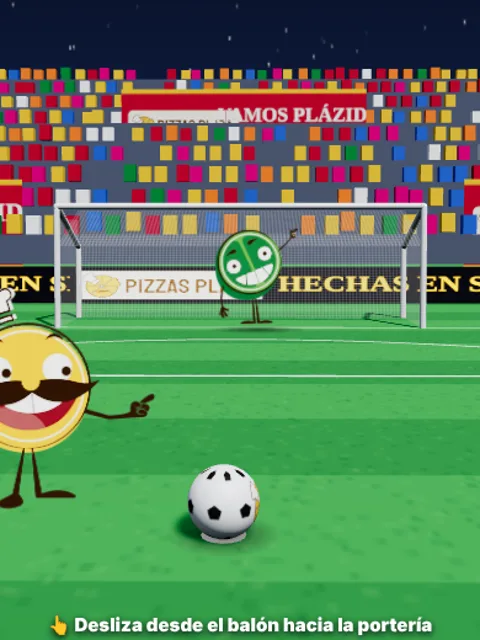
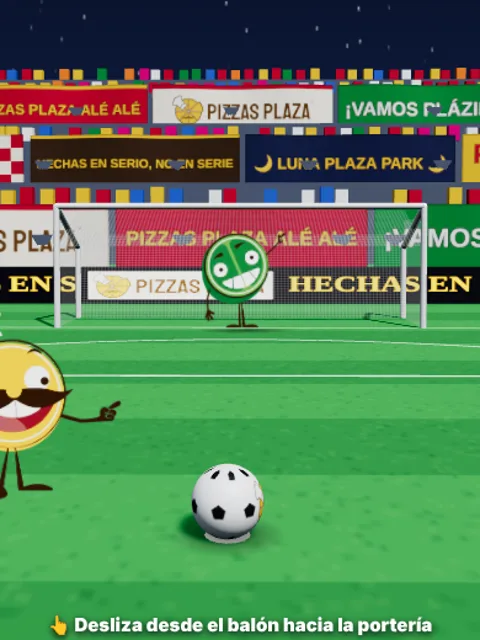
Penales 3D: más mantas grandes que ondean y porra Pizzas Plaza alé alé
Claude-Session: https://claude.ai/code/session_019rUShXu8QUnKqHiJVXwCAX

diff --git a/juegos/penales-3d/index.html b/juegos/penales-3d/index.html
@@ -104,7 +104,7 @@ const foco=new THREE.DirectionalLight(0xFFFFFF,2.6); foco.position.set(8,22,10);
 Object.assign(foco.shadow.camera,{left:-12,right:12,top:12,bottom:-16,near:1,far:60}); foco.target.position.set(0,0,-6); escena.add(foco,foco.target);
 
 // ---------------- estadio ----------------
-const T={}; let balon, portero, plaz, red, redLat=[], sombraB, sombraP, led=[], gente, aficion=[], listo=false;
+const T={}, mantas=[]; let balon, portero, plaz, red, redLat=[], sombraB, sombraP, led=[], gente, aficion=[], listo=false;
 async function mundo(){
   const logo=await cargar(A.logo), icono=await cargar(A.icono);
   // pasto con franjas de podado
@@ -135,15 +135,32 @@ async function mundo(){
   const concreto=mat({color:0x5A6378,roughness:.95});
   const grada=(z0,x0,ancho,rot)=>{ const g=new THREE.Group(); for(let i=0;i<9;i++){ const e=new THREE.Mesh(new THREE.BoxGeometry(ancho,.9,1.6),concreto); e.position.set(0,.45+i*.9,-i*1.6); e.receiveShadow=true; g.add(e); } g.position.set(x0,1,z0); g.rotation.y=rot; escena.add(g); return g; };
   const gradas=[grada(GZ-9,0,60,0),grada(-14,-27,40,Math.PI/2),grada(-14,27,40,-Math.PI/2)];
+  // dónde van las mantas de la grada de atrás: [diseño, x, escalón]
+  const ANCHO=7.6; const MANTAS=[[0,-7.8,0],[1,0,0],[2,7.8,0],[3,-3.9,3],[4,3.9,3],[5,-11.7,3],[6,11.7,3],[1,-7.8,6],[0,0,6],[2,7.8,6],[6,-15.6,0],[5,15.6,0],[4,-15.6,6],[3,15.6,6]];
+  const tapa=(x,i)=>MANTAS.some(([k,bx,bi])=>(bi===i||bi===i+1)&&Math.abs(x-bx)<ANCHO/2+.2);
   // afición (cubitos de colores que brincan)
   const colores=[0xFCC10C,0xC8102E,0xFFFFFF,0x1E8A3A,0xFF7A1A,0x2B6CD9,0xE4007C].map(c=>new THREE.Color(c));
   const n=1500; gente=new THREE.InstancedMesh(new THREE.BoxGeometry(.42,.6,.32),new THREE.MeshStandardMaterial({roughness:.8}),n); const dummy=new THREE.Object3D(); let k=0;
-  gradas.forEach(g=>{ g.updateMatrixWorld(); const ancho=g.children[0].geometry.parameters.width; for(let i=0;i<9;i++) for(let x=-ancho/2+.5;x<ancho/2-.4&&k<n;x+=.62){ if(Math.random()<.12) continue; const p=new THREE.Vector3(x+rnd(-.08,.08),.9+.3+i*.9,-i*1.6+rnd(-.3,.1)).applyMatrix4(g.matrixWorld); aficion.push({p,f:Math.random()*6,a:rnd(.05,.25)}); dummy.position.copy(p); dummy.updateMatrix(); gente.setMatrixAt(k,dummy.matrix); gente.setColorAt(k,Math.random()<.45?colores[k%2]:colores[Math.random()*colores.length|0]); k++; } });
+  gradas.forEach(g=>{ g.updateMatrixWorld(); const ancho=g.children[0].geometry.parameters.width; for(let i=0;i<9;i++) for(let x=-ancho/2+.5;x<ancho/2-.4&&k<n;x+=.62){ if(Math.random()<.12) continue; if(g===gradas[0]&&tapa(x,i)) continue; const p=new THREE.Vector3(x+rnd(-.08,.08),.9+.3+i*.9,-i*1.6+rnd(-.3,.1)).applyMatrix4(g.matrixWorld); aficion.push({p,f:Math.random()*6,a:rnd(.05,.25)}); dummy.position.copy(p); dummy.updateMatrix(); gente.setMatrixAt(k,dummy.matrix); gente.setColorAt(k,Math.random()<.45?colores[k%2]:colores[Math.random()*colores.length|0]); k++; } });
   gente.count=k; escena.add(gente); gente.userData.dummy=dummy;
-  // mantas de Pizzas Plaza en la grada
-  T.manta=lienzo(1024,300,(g,w,h)=>{ g.fillStyle='#C8102E'; g.fillRect(0,0,w,h); g.fillStyle='#FCC10C'; g.fillRect(0,0,w,18); g.fillRect(0,h-18,w,18); if(logo){ const lw=w*.42, lh=lw*logo.height/logo.width; g.fillStyle='#FFF8E7'; g.beginPath(); g.roundRect(30,h/2-lh/2-14,lw+30,lh+28,16); g.fill(); g.drawImage(logo,45,h/2-lh/2,lw,lh); }
-    g.fillStyle='#fff'; g.font='900 82px "Bebas Neue",Impact'; g.textAlign='center'; g.textBaseline='middle'; g.fillText('¡VAMOS PLÁZIDO!',w*.73,h*.38); g.fillStyle='#FCC10C'; g.font='900 46px "Bebas Neue",Impact'; g.fillText('HECHAS EN SERIO, NO EN SERIE',w*.73,h*.7); });
-  [[-12,0],[12,0],[0,1]].forEach(([x,f])=>{ const m=new THREE.Mesh(new THREE.PlaneGeometry(10,2.9),new THREE.MeshStandardMaterial({map:T.manta,side:THREE.DoubleSide,roughness:.9})); m.position.set(x,2.2+f*4.2,GZ-9.3-f*7.4); escena.add(m); });
+  // mantas de Pizzas Plaza en la grada (muchas, grandes y ondeando)
+  const manta=(fondo,dib)=>lienzo(1024,288,(g,w,h)=>{ g.fillStyle=fondo; g.fillRect(0,0,w,h); dib(g,w,h); g.strokeStyle='rgba(0,0,0,.25)'; g.lineWidth=6; g.strokeRect(3,3,w-6,h-6); });
+  const conLogo=(g,w,h,x,lw)=>{ if(!logo) return; const lh=lw*logo.height/logo.width; g.fillStyle='#FFF8E7'; g.beginPath(); g.roundRect(x-lw/2-16,h/2-lh/2-12,lw+32,lh+24,14); g.fill(); g.drawImage(logo,x-lw/2,h/2-lh/2,lw,lh); };
+  const texto=(g,t,x,y,fz,col,mw)=>{ g.font=`900 ${fz}px "Bebas Neue",Impact,sans-serif`; const tw=g.measureText(t).width; if(tw>mw) g.font=`900 ${fz*mw/tw}px "Bebas Neue",Impact,sans-serif`; g.fillStyle=col; g.textAlign='center'; g.textBaseline='middle'; g.lineWidth=8; g.strokeStyle='rgba(0,0,0,.35)'; g.strokeText(t,x,y); g.fillText(t,x,y); };
+  T.mantas=[
+    manta('#FFF8E7',(g,w,h)=>{ g.fillStyle='#C8102E'; g.fillRect(0,0,w,26); g.fillRect(0,h-26,w,26); conLogo(g,w,h,w/2,w*.78); }),
+    manta('#C8102E',(g,w,h)=>{ g.fillStyle='#FCC10C'; g.fillRect(0,0,w,20); g.fillRect(0,h-20,w,20); texto(g,'PIZZAS PLAZA ALÉ ALÉ',w/2,h/2,150,'#FCC10C',w*.92); }),
+    manta('#1E8A3A',(g,w,h)=>{ texto(g,'¡VAMOS PLÁZIDO!',w/2,h/2,170,'#FFFFFF',w*.92); }),
+    manta('#422913',(g,w,h)=>{ g.fillStyle='#FCC10C'; g.fillRect(0,0,w,16); g.fillRect(0,h-16,w,16); texto(g,'HECHAS EN SERIO, NO EN SERIE',w/2,h/2,140,'#FCC10C',w*.94); }),
+    manta('#13254F',(g,w,h)=>{ texto(g,'🌙 LUNA PLAZA PARK 🌙',w/2,h/2,140,'#FCC10C',w*.92); }),
+    manta('#FFF8E7',(g,w,h)=>{ const n=16,s=w/n; for(let y=0;y<h/s;y++) for(let x=0;x<n;x++){ if((x+y)%2){ g.fillStyle='#C8102E'; g.fillRect(x*s,y*s,s,s); } } conLogo(g,w,h,w/2,w*.55); }),
+    manta('#FCC10C',(g,w,h)=>{ texto(g,'PIZZAS PLAZA',w/2,h*.36,150,'#C8102E',w*.9); texto(g,'¡CAMPEÓN!',w/2,h*.76,100,'#422913',w*.9); }),
+  ];
+  const ponManta=(k,x,i,ancho=ANCHO,lado=0)=>{ const geo=new THREE.PlaneGeometry(ancho,ancho*288/1024,24,4); const m=new THREE.Mesh(geo,new THREE.MeshStandardMaterial({map:T.mantas[k],side:THREE.DoubleSide,roughness:.85}));
+    if(!lado) m.position.set(x,1+(i+1)*.9-.15,GZ-9+.9-i*1.6); else { m.position.set(lado*(27-1.0+i*1.6),1+(i+1)*.9-.15,x); m.rotation.y=-lado*Math.PI/2; }
+    m.userData.base=geo.attributes.position.array.slice(); m.userData.fase=Math.random()*6; escena.add(m); mantas.push(m); };
+  MANTAS.forEach(([k,x,i])=>ponManta(k,x,i,ANCHO));
+  [[1,-14,0],[0,-6,2],[3,-20,4]].forEach(([k,z,i])=>{ ponManta(k,z,i,7,-1); ponManta((k+2)%7,z,i,7,1); });
   // torres de luz
   const brillo=lienzo(128,128,(g,w,h)=>{ const gr=g.createRadialGradient(64,64,0,64,64,64); gr.addColorStop(0,'rgba(255,255,255,1)'); gr.addColorStop(.3,'rgba(220,235,255,.6)'); gr.addColorStop(1,'rgba(200,220,255,0)'); g.fillStyle=gr; g.fillRect(0,0,w,h); });
   [[-26,-30],[26,-30],[-30,6],[30,6]].forEach(([x,z])=>{ const p=new THREE.Mesh(new THREE.CylinderGeometry(.3,.5,26,8),mat({color:0x444B5A,metalness:.4})); p.position.set(x,13,z); escena.add(p);
@@ -164,6 +181,34 @@ async function mundo(){
   listo=true; colocar();
 }
 function pose(k){ if(!plaz||!T.pose[k]) return; plaz.material.map=T.pose[k]; const im=T.pose[k].image; plaz.scale.set(1.35*im.width/im.height,1.35,1); }
+
+// ---------------- tribuna: ambiente + porra "Pizzas Plaza alé alé" (sintetizada) ----------------
+const TB={ini:false,prox:6};
+function tribunaIni(){ const AC=SND.ctx; if(!AC||TB.ini) return; TB.ini=true; TB.AC=AC;
+  TB.out=AC.createGain(); TB.out.gain.value=SND.muted?0:1; TB.out.connect(AC.destination);
+  const len=AC.sampleRate*2.4, ir=AC.createBuffer(2,len,AC.sampleRate); for(let c=0;c<2;c++){ const d=ir.getChannelData(c); for(let i=0;i<len;i++) d[i]=(Math.random()*2-1)*Math.pow(1-i/len,3.2); }
+  TB.rev=AC.createConvolver(); TB.rev.buffer=ir; const wet=AC.createGain(); wet.gain.value=.5; TB.rev.connect(wet).connect(TB.out);
+  TB.voz=AC.createGain(); TB.voz.gain.value=.55; TB.voz.connect(TB.out); TB.voz.connect(TB.rev);
+  const nb=AC.createBuffer(1,AC.sampleRate*4,AC.sampleRate), nd=nb.getChannelData(0); let u=0; for(let i=0;i<nd.length;i++){ u=(u+.04*(Math.random()*2-1))/1.04; nd[i]=u*3.2; } TB.ruido=nb;
+  const src=AC.createBufferSource(); src.buffer=nb; src.loop=true; const bp=AC.createBiquadFilter(); bp.type='bandpass'; bp.frequency.value=700; bp.Q.value=.5;
+  TB.amb=AC.createGain(); TB.amb.gain.value=.22; src.connect(bp).connect(TB.amb); TB.amb.connect(TB.out); TB.amb.connect(TB.rev); src.start(); }
+const FORM={a:[750,1250,2600],e:[450,1900,2550],i:[300,2250,3000],o:[480,900,2400]};
+function silaba(t0,dur,f,vocal,cons,vol=1){ const AC=TB.AC, bus=AC.createGain(); bus.gain.setValueAtTime(0,t0); bus.gain.linearRampToValueAtTime(.16*vol,t0+.035); bus.gain.setValueAtTime(.16*vol,t0+dur*.75); bus.gain.linearRampToValueAtTime(0,t0+dur+.06);
+  const fs=FORM[vocal].map((ff,k)=>{ const b=AC.createBiquadFilter(); b.type='bandpass'; b.frequency.value=ff; b.Q.value=k?7:5; const g=AC.createGain(); g.gain.value=[1,.55,.25][k]; b.connect(g).connect(bus); return b; });
+  for(let v=0;v<9;v++){ const o=AC.createOscillator(); o.type='sawtooth'; const oct=v%3===0?.5:1; o.frequency.value=f*oct*Math.pow(2,(Math.random()*44-22)/1200); const tt=t0+Math.random()*.045; o.frequency.setValueAtTime(o.frequency.value*.97,tt); o.frequency.linearRampToValueAtTime(o.frequency.value,tt+.06); fs.forEach(b=>o.connect(b)); o.start(tt); o.stop(t0+dur+.12); }
+  bus.connect(TB.voz);
+  if(cons){ const s=AC.createBufferSource(); s.buffer=TB.ruido; const hp=AC.createBiquadFilter(); hp.type='highpass'; hp.frequency.value=cons==='s'?3800:cons==='p'?600:1800; const g=AC.createGain(); const d=cons==='s'?.09:.035; g.gain.setValueAtTime(.35*vol,t0-.01); g.gain.exponentialRampToValueAtTime(.001,t0+d); s.connect(hp).connect(g).connect(TB.voz); s.start(t0-.02,Math.random()*2,d+.05); } }
+function bombo(t0,vol=1){ const AC=TB.AC, o=AC.createOscillator(), g=AC.createGain(); o.frequency.setValueAtTime(95,t0); o.frequency.exponentialRampToValueAtTime(42,t0+.22); g.gain.setValueAtTime(.7*vol,t0); g.gain.exponentialRampToValueAtTime(.001,t0+.35); o.connect(g); g.connect(TB.out); g.connect(TB.rev); o.start(t0); o.stop(t0+.4); }
+function palmas(t0){ const AC=TB.AC; for(let k=0;k<3;k++){ const s=AC.createBufferSource(); s.buffer=TB.ruido; const bp=AC.createBiquadFilter(); bp.type='bandpass'; bp.frequency.value=1500+k*400; bp.Q.value=1.2; const g=AC.createGain(); const tt=t0+k*.008; g.gain.setValueAtTime(.4,tt); g.gain.exponentialRampToValueAtTime(.001,tt+.07); s.connect(bp).connect(g); g.connect(TB.out); g.connect(TB.rev); s.start(tt,Math.random()*3,.1); } }
+// "Piz-zas Pla-za, a-lé, a-lé" (melodía original de porra)
+const N={D:146.8,F:174.6,G:196,A:220,C:261.6,Bb:233.1};
+const PORRA=[['i','p',N.D,.5],['a','s',N.D,.5],['a','p',N.F,.5],['a','s',N.D,.5],['a','',N.A,.5],['e','l',N.A,1],['a','',N.G,.5],['e','l',N.F,1]];
+const SLOGAN=[['e','',N.F,.5],['a','s',N.F,.5],['e','',N.F,.5],['e','s',N.A,.5],['o','',N.G,1],['o','n',N.F,.5],['e','',N.F,.5],['e','s',N.G,.5],['e','',N.A,1],['o','',N.C,.5],['e','l',N.A,1.5]];
+function porra(veces=2,conSlogan=false){ if(!TB.ini||SND.muted) return; const AC=TB.AC, B=.27; let t=AC.currentTime+.08;
+  const frase=f=>{ f.forEach(([v,c,fr,d],k)=>{ silaba(t,d*B*.92,fr,v,c); if(k%2===0){ bombo(t); } else palmas(t); t+=d*B; }); bombo(t); t+=B; };
+  for(let r=0;r<veces;r++) frase(PORRA); if(conSlogan) frase(SLOGAN); TB.prox=reloj+(t-AC.currentTime)+9+Math.random()*6; }
+function rugido(fuerza=1){ if(!TB.ini) return; const g=TB.amb.gain, n=TB.AC.currentTime; g.cancelScheduledValues(n); g.setValueAtTime(g.value,n); g.linearRampToValueAtTime(.22+.9*fuerza,n+.25); g.linearRampToValueAtTime(.22,n+3.5); }
+function tribunaTick(dt){ if(!TB.ini){ if(SND.ctx) tribunaIni(); return; } TB.out.gain.value=SND.muted?0:1; if((estado==='apuntar')&&reloj>TB.prox) porra(1); }
 
 // ---------------- juego ----------------
 let estado='menu', tiro=0, goles=0, atajadas=0, vuelo=null, port={x:0,y:.95,tx:0,ty:.95,t:0,dur:.5,rot:0,trot:0,listo:0}, reloj=0, sacude=0, festejo=0, redOnda=0, resultados=[];
@@ -187,15 +232,15 @@ function resolver(){ const {tx,ty}=vuelo, dx=Math.abs(tx-port.x), dy=Math.abs(ty
   return r; }
 const LOG=[];
 function finTiro(r){ LOG.push([r,vuelo.tx.toFixed(2),vuelo.ty.toFixed(2),port.x.toFixed(2),port.y.toFixed(2)].join(' ')); tiro++; const gol=r==='gol'; resultados.push(gol); if(gol) goles++; else if(r==='atajada') atajadas++; hud();
-  if(gol){ aviso('¡GOOOOL!',['Hechas en serio, no en serie ⚽','¡La afición enloquece!','¡Golazo de Plázido!'][Math.random()*3|0],1600); SND.seq([523,659,784,1046],'square',.08,.06); vib([40,30,80]); pose('feliz'); festejo=2.2; sacude=.25; redOnda=1; confeti(new THREE.Vector3(vuelo.tx,1.2,GZ+.5)); }
-  else if(r==='atajada'){ aviso('¡ATAJADA!','Jalapeño estuvo picosito 🌶',1400); SND.seq([400,300],'sawtooth',.08,.08); pose('pose_3'); }
+  if(gol){ aviso('¡GOOOOL!',['Hechas en serio, no en serie ⚽','¡La afición enloquece!','¡Golazo de Plázido!'][Math.random()*3|0],1600); SND.seq([523,659,784,1046],'square',.08,.06); vib([40,30,80]); pose('feliz'); festejo=2.2; sacude=.25; redOnda=1; confeti(new THREE.Vector3(vuelo.tx,1.2,GZ+.5)); rugido(1); setTimeout(()=>porra(2),900); }
+  else if(r==='atajada'){ rugido(.35); aviso('¡ATAJADA!','Jalapeño estuvo picosito 🌶',1400); SND.seq([400,300],'sawtooth',.08,.08); pose('pose_3'); }
   else if(r==='poste'){ aviso('¡AL POSTE!','¡Uyyy, casi!',1400); SND.t(1800,.25,'triangle',.08,-900); pose('pose_3'); sacude=.15; }
   else { aviso('¡AFUERA!','Apunta dentro de la portería',1400); SND.t(200,.25,'sine',.06,-80); pose('pose_3'); }
   const faltan=TIROS-tiro;
   setTimeout(()=>{ if(goles>=META) return ganar(); if(goles+faltan<META) return perder(); colocar(); estado='apuntar'; },1900); }
 function empezar(){ SND.on(); if(!listo) return; document.querySelectorAll('.capa').forEach(c=>c.classList.remove('on')); $('hud').classList.add('on'); $('ayuda').style.display='block';
-  tiro=0; goles=0; atajadas=0; resultados=[]; hud(); colocar(); estado='apuntar'; aviso('¡FINAL DE LA COPA!','Mete 3 de 5',1300); }
-function ganar(){ estado='fin'; SND.gana(); pose('saludando'); aviso('¡CAMPEONES!','Hechas en serio, no en serie 🏆',2000); confeti(new THREE.Vector3(0,2,-3),120); festejo=4; PP.record('penales-3d',goles); setTimeout(()=>PP.ganar(),2200); }
+  tiro=0; goles=0; atajadas=0; resultados=[]; hud(); colocar(); estado='apuntar'; aviso('¡FINAL DE LA COPA!','Mete 3 de 5',1300); tribunaIni(); porra(2,true); }
+function ganar(){ estado='fin'; SND.gana(); pose('saludando'); aviso('¡CAMPEONES!','Hechas en serio, no en serie 🏆',2000); confeti(new THREE.Vector3(0,2,-3),120); festejo=4; rugido(1); setTimeout(()=>porra(2,true),600); PP.record('penales-3d',goles); setTimeout(()=>PP.ganar(),2200); }
 function perder(){ estado='fin'; SND.pierde(); const r=PP.record('penales-3d',goles); $('finTxt').innerHTML=`Metiste <b>${goles} de ${TIROS}</b>. Necesitabas 3 para llevarte la copa. Tu récord: <b>${r??goles}</b> goles.`; setTimeout(()=>{ $('fin').classList.add('on'); $('hud').classList.remove('on'); },600); }
 $('bJugar').onclick=empezar; $('bOtra').onclick=empezar;
 const r0=PP.record('penales-3d'); $('record').textContent=r0!==null?`Tu récord: ${r0} goles`:'';
@@ -237,6 +282,8 @@ function bucle(ts){ const dt=Math.min(.05,(ts-prev)/1000); prev=ts; reloj+=dt;
     // afición: brinca más con los goles
     const ganas=festejo>0?1:.25, d=gente.userData.dummy; for(let i=0;i<gente.count;i++){ const a=aficion[i]; d.position.set(a.p.x,a.p.y+Math.max(0,Math.sin(reloj*(festejo>0?11:3)+a.f))*a.a*(festejo>0?2.4:1)*ganas*2,a.p.z); d.updateMatrix(); gente.setMatrixAt(i,d.matrix); } gente.instanceMatrix.needsUpdate=true;
     T.led.offset.x=(T.led.offset.x+dt*.05)%1;
+    for(const m of mantas){ const pa=m.geometry.attributes.position, b=m.userData.base, f=m.userData.fase, fuerza=festejo>0?.28:.12; for(let i=0;i<pa.count;i++){ const x=b[i*3], y=b[i*3+1]; pa.setZ(i,Math.sin(x*1.3+reloj*(festejo>0?7:3)+f)*fuerza*(.6+(y+1)*.3)); } pa.needsUpdate=true; m.geometry.computeVertexNormals(); }
+    tribunaTick(dt);
     for(let i=conf.length-1;i>=0;i--){ const c=conf[i]; c.vida-=dt; c.v.y-=6*dt; c.v.multiplyScalar(.99); c.m.position.addScaledVector(c.v,dt); c.m.rotation.x+=c.r.x*dt; c.m.rotation.y+=c.r.y*dt; if(c.vida<=0||c.m.position.y<0){ escena.remove(c.m); conf.splice(i,1); } }
     // cámara: detrás del balón; sigue un poco el tiro
     const sigue=estado==='vuelo'||estado==='despues'?clamp(-balon.position.z/11,0,1):0, menu=estado==='menu';

diff --git a/juegos/pp.js b/juegos/pp.js
@@ -212,7 +212,7 @@ const SND=(()=>{
     o.type=tipo; o.frequency.setValueAtTime(f,a); if(desliz) o.frequency.exponentialRampToValueAtTime(Math.max(30,f+desliz),a+d);
     g.gain.setValueAtTime(vol,a); g.gain.exponentialRampToValueAtTime(.0001,a+d); o.connect(g).connect(AC.destination); o.start(a); o.stop(a+d+.02); }
   const seq=(arr,tipo='triangle',vol=.08,paso=.1)=>arr.forEach((f,i)=>t(f,paso*1.4,tipo,vol,0,i*paso));
-  return { on, t, seq,
+  return { on, t, seq, get ctx(){return AC},
     get muted(){return muted}, toggle(){ muted=!muted; PP.store.set('pp_mute',muted?'1':'0'); on(); return muted; },
     ok:()=>seq([660,880],'square',.06,.07), bien:()=>seq([523,659,784,1046],'triangle',.08,.09),
     mal:()=>{t(220,.25,'sawtooth',.08,-120)}, click:()=>t(900,.04,'square',.04),
